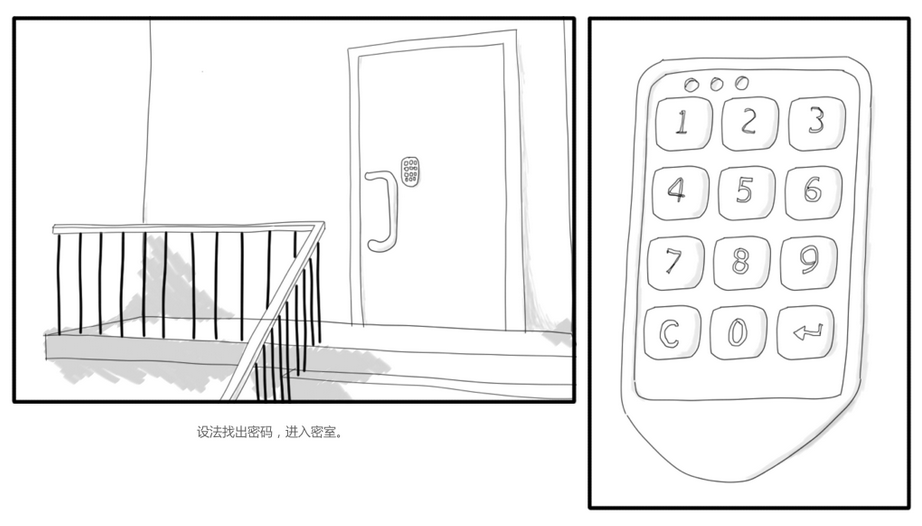
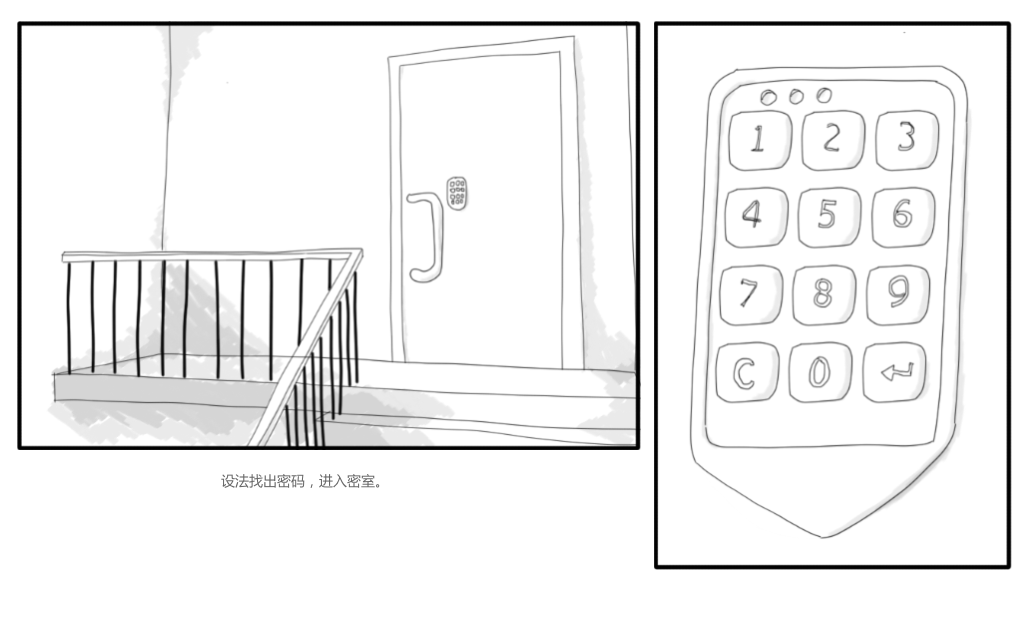
fingerprint update

diff --git a/step0.js b/step0.js
@@ -9,36 +9,46 @@
  */
 KISSY.ready(function(S){
     var c = S.one("#J_Canvas"),
-        ctx = c && c[0].getContext('2d');
+        ctx = c && c[0].getContext('2d'),
+        ofst = c.offset();
 
     var coords = [
-        {x: 735, y: 330}
-        ,{x: 680, y: 120}
-        ,{x: 750, y: 120}
-        ,{x: 815, y: 123}
-        ,{x: 675, y: 190}
-        ,{x: 745, y: 195}
-        ,{x: 810, y: 190}
-        ,{x: 675, y: 260}
-        ,{x: 745, y: 260}
-        ,{x: 815, y: 260}
-        ,{x: 665, y: 330}
-        ,{x: 815, y: 330}
+        {x: 789, y: 341}
+        ,{x: 729, y: 110}
+        ,{x: 802, y: 110}
+        ,{x: 875, y: 110}
+        ,{x: 725, y: 187}
+        ,{x: 798, y: 187}
+        ,{x: 872, y: 187}
+        ,{x: 720, y: 264}
+        ,{x: 793, y: 264}
+        ,{x: 867, y: 264}
+        ,{x: 716, y: 341}
+        ,{x: 863, y: 341}
     ];
 
     var _MSG_ = 0,
         _BLOWC_ = 0;
 
-    function bg() {
-        i = new Image();
+    function draw(img, x, y, a) {
+        var i = new Image();
         i.onload = function() {
-            ctx.drawImage(i,0,0);
+            if (a) {
+                ctx.save();
+                ctx.globalAlpha = a;
+            }
+            ctx.drawImage(i, x, y);
         }
-
-        i.src = "images/i.png";
+        i.src = img;
     }
 
-    bg();
+    draw("images/i.png", 0, 0);
+
+    function kd(i) {
+        if (!S.isNumber(i) || i < 0 || i > 11) return;
+
+        draw("images/btn.png", coords[i].x, coords[i].y);
+    }
 
     function fingerprint(x, y, r, n) {
         var r0 = r;
@@ -47,6 +57,10 @@ KISSY.ready(function(S){
                 r = Math.random() * r0;
             point(x + Math.cos(arc) * r, y + Math.sin(arc) * r, "rgba(200, 200, 200," + (.5 + .5 * Math.random()) + ")")
         }
+    }
+
+    function fp(x, y, a) {
+        draw("images/fp.png", x, y, a);
     }
 
     function point(x, y, rgba) {
@@ -69,7 +83,7 @@ KISSY.ready(function(S){
             pt;
 
         while (pt = coords[i]) {
-            if (x > pt.x - 15 && x < pt.x + 50 && y > pt.y - 10 && y < pt.y + 50) {
+            if (x > pt.x && x < pt.x + 65 && y > pt.y && y < pt.y + 60) {
                 return i;
             }
 
@@ -85,8 +99,11 @@ KISSY.ready(function(S){
             if (_BLOWC_ >= 10) return;
             _BLOWC_ ++;
             S.each(pwd, function(n) {
-                fingerprint(coords[n].x, coords[n].y, 20, Math.floor(Math.random() * 100));
+                //fingerprint(coords[n].x + 31, coords[n].y + 28, 20, Math.floor(Math.random() * 100));
+                fp(coords[n].x + 3 + n%5, coords[n].y + 7 + n%3, Math.random() * .04);
             });
+
+            fp(coords[11].x + 5, coords[11].y + 5, Math.random() * .04);
         }
     };
 
@@ -102,7 +119,7 @@ KISSY.ready(function(S){
 
     function bn() {
         var b = "======================================\n"
-                + "          Welcomt to CXA!\n"
+                + "          Welcome to CXA!\n"
                 + "Run powder.blow() to show fingerprint.\n"
                 + "======================================";
 
@@ -115,9 +132,10 @@ KISSY.ready(function(S){
 
     S.one(window).fire("resize");
 
-    c.on("click", function(e){
-        var ofst = c.offset(),
-            k = getKey(e.clientX - ofst.left + window.scrollX, e.clientY - ofst.top + window.scrollY);
+    c.on("mousedown", function(e){
+        var k = getKey(e.clientX - ofst.left + window.scrollX, e.clientY - ofst.top + window.scrollY);
+
+        //kd(k);
 
         if (k === 10) {
             _pwd_ = "";
@@ -134,6 +152,15 @@ KISSY.ready(function(S){
         else if (S.isNumber(k)){
             _pwd_ += k;
         }
-    });
+    })
+    .on("mousemove", function(e){
+        var k = getKey(e.clientX - ofst.left + window.scrollX, e.clientY - ofst.top + window.scrollY);
 
+        if (S.isNumber(k) && k >= 0 && k <= 11) {
+            c.css({"cursor": "pointer"});
+        }
+        else {
+            c.css({"cursor": "auto"});
+        }
+    });
 });
